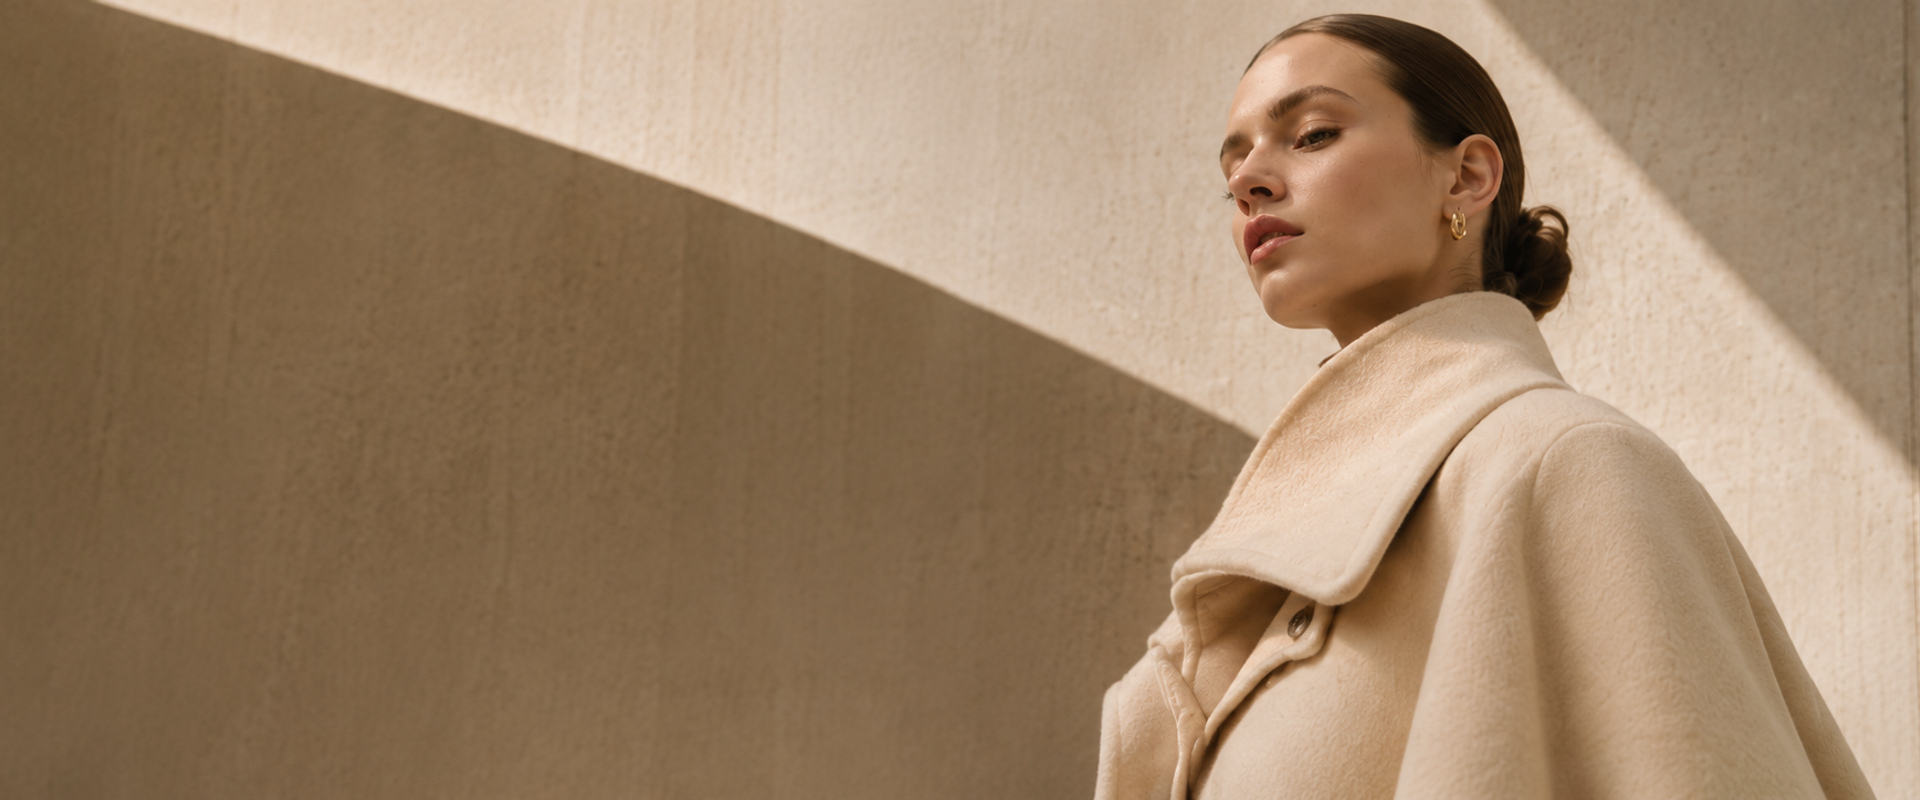
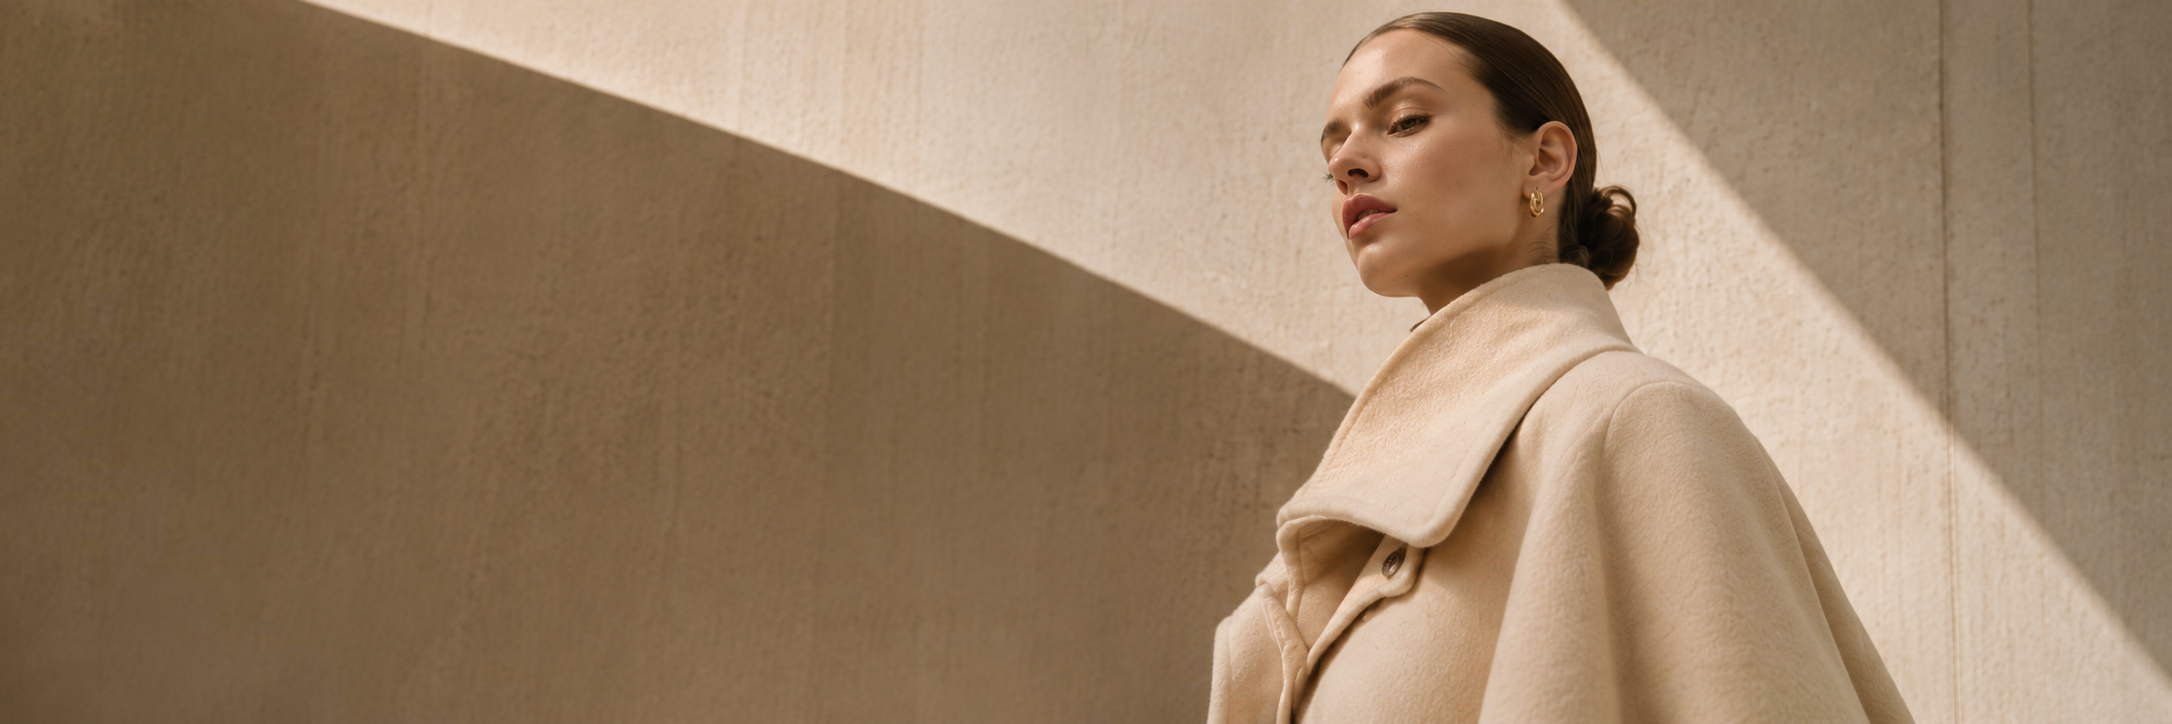
fix: align About, Journal, and Collections layouts to exact reference coordinates

diff --git a/src/app/about/page.tsx b/src/app/about/page.tsx
@@ -27,32 +27,31 @@ export default function AboutPage() {
   return (
     <div className="w-full bg-[#FAF8F5] text-[#171717] min-h-screen">
       {/* ──────────────────────────────────────────────────────────── */}
-      {/* 1. HERO SECTION: "THE ART OF LESS."                          */}
+      {/* 1. HERO SECTION: "THE ART OF LESS." (FULL-WIDTH BANNER)      */}
       {/* ──────────────────────────────────────────────────────────── */}
-      <section className="relative w-full border-b border-[#E9E6E0] bg-[#8B735B] overflow-hidden text-white">
-        <div className="max-w-[1600px] mx-auto flex flex-col lg:flex-row items-stretch min-h-[380px] sm:min-h-[440px] lg:min-h-[480px]">
-          {/* Left Column: Heading and Subtitle */}
-          <div className="w-full lg:w-[55%] px-6 sm:px-12 lg:px-16 py-12 sm:py-16 lg:py-20 flex flex-col justify-center space-y-3 sm:space-y-4 z-10">
-            <h1 className="font-editorial text-4xl sm:text-5xl lg:text-6xl text-white font-normal tracking-wide leading-tight">
-              THE ART OF LESS.
-            </h1>
-            <p className="text-xs sm:text-sm text-white/80 font-light tracking-wide max-w-md">
-              Designed with intention. Made to endure.
-            </p>
-          </div>
+      <section className="relative w-full h-[280px] sm:h-[360px] md:h-[420px] lg:h-[480px] overflow-hidden bg-[#786452] border-b border-[#E9E6E0]">
+        <div className="absolute inset-0">
+          <Image
+            src="/images/about/about-hero-model.jpg"
+            alt="VELORA The Art of Less"
+            fill
+            priority
+            quality={98}
+            className="object-cover object-[70%_top] sm:object-center"
+            sizes="100vw"
+          />
+          {/* Subtle gradient overlay to provide pristine legibility on the left while showcasing the model on the right */}
+          <div className="absolute inset-0 bg-gradient-to-r from-black/45 via-black/20 to-transparent w-full sm:w-[60%] lg:w-[48%]" />
+        </div>
 
-          {/* Right Column: Hero Portrait Photography */}
-          <div className="w-full lg:w-[45%] relative min-h-[320px] sm:min-h-[380px] lg:min-h-auto bg-[#7A644E] overflow-hidden">
-            <Image
-              src="/images/about/about-hero-model.jpg"
-              alt="VELORA The Art of Less"
-              fill
-              priority
-              quality={95}
-              className="object-cover object-top"
-              sizes="(max-width: 1024px) 100vw, 45vw"
-            />
-          </div>
+        {/* Hero Narrative Overlay */}
+        <div className="relative z-10 h-full max-w-[1600px] mx-auto px-6 sm:px-12 lg:px-16 flex flex-col justify-center space-y-2 sm:space-y-3">
+          <h1 className="font-editorial text-4xl sm:text-5xl lg:text-6xl text-white font-normal tracking-wide leading-tight">
+            THE ART OF LESS.
+          </h1>
+          <p className="text-xs sm:text-sm text-white/90 font-light tracking-wide max-w-md">
+            Designed with intention. Made to endure.
+          </p>
         </div>
       </section>
 
@@ -62,7 +61,7 @@ export default function AboutPage() {
       <section className="max-w-[1600px] mx-auto px-6 sm:px-10 lg:px-12 py-14 sm:py-20 border-b border-[#E9E6E0]">
         <div className="grid grid-cols-1 lg:grid-cols-12 gap-8 lg:gap-14 items-center">
           {/* Left Column: Story text */}
-          <div className="lg:col-span-7 space-y-4 sm:space-y-5">
+          <div className="lg:col-span-6 space-y-4 sm:space-y-5">
             <span className="text-[10px] tracking-[0.35em] uppercase text-[#77736E] font-medium block">
               OUR STORY
             </span>
@@ -85,13 +84,13 @@ export default function AboutPage() {
           </div>
 
           {/* Right Column: Male model portrait */}
-          <div className="lg:col-span-5 relative aspect-[4/3] sm:aspect-[16/11] w-full overflow-hidden bg-[#ECE7DE] border border-[#E9E6E0]">
+          <div className="lg:col-span-6 relative aspect-[16/10] sm:aspect-[16/9.5] w-full overflow-hidden bg-[#ECE7DE] border border-[#E9E6E0]">
             <Image
               src="/images/about/about-story-model.jpg"
               alt="A Considered Modern Wardrobe"
               fill
-              className="object-cover object-top"
-              sizes="(max-width: 1024px) 100vw, 42vw"
+              className="object-cover object-center"
+              sizes="(max-width: 1024px) 100vw, 50vw"
             />
           </div>
         </div>
@@ -110,7 +109,7 @@ export default function AboutPage() {
         <div className="grid grid-cols-1 md:grid-cols-3 gap-6 sm:gap-8">
           {designPrinciples.map((item, idx) => (
             <div key={idx} className="space-y-3">
-              <div className="relative aspect-[16/8] sm:aspect-[16/9] w-full overflow-hidden bg-[#ECE7DE] border border-[#E9E6E0]">
+              <div className="relative aspect-[16/9] w-full overflow-hidden bg-[#ECE7DE] border border-[#E9E6E0]">
                 <Image
                   src={item.image}
                   alt={item.label}
@@ -138,7 +137,7 @@ export default function AboutPage() {
       <section className="max-w-[1600px] mx-auto px-6 sm:px-10 lg:px-12 py-14 sm:py-20 border-b border-[#E9E6E0]">
         <div className="grid grid-cols-1 lg:grid-cols-12 gap-8 lg:gap-14 items-center">
           {/* Left Column: Artisan hands cutting cloth */}
-          <div className="lg:col-span-7 relative aspect-[16/9] sm:aspect-[16/8] w-full overflow-hidden bg-[#ECE7DE] border border-[#E9E6E0]">
+          <div className="lg:col-span-7 relative aspect-[16/9] sm:aspect-[16/8.5] w-full overflow-hidden bg-[#ECE7DE] border border-[#E9E6E0]">
             <Image
               src="/images/about/about-craftsmanship.jpg"
               alt="Artisan Craftsmanship"
@@ -178,7 +177,7 @@ export default function AboutPage() {
       <section className="max-w-[1600px] mx-auto px-6 sm:px-10 lg:px-12 py-14 sm:py-20 border-b border-[#E9E6E0]">
         <div className="grid grid-cols-1 lg:grid-cols-12 gap-6 sm:gap-10 items-center">
           {/* Left Column: Big Headline */}
-          <div className="lg:col-span-7 space-y-2">
+          <div className="lg:col-span-6 space-y-2">
             <span className="text-[10px] tracking-[0.35em] uppercase text-[#77736E] font-medium block">
               OUR MANIFESTO
             </span>
@@ -188,8 +187,13 @@ export default function AboutPage() {
             </h2>
           </div>
 
+          {/* Middle vertical divider */}
+          <div className="hidden lg:flex lg:col-span-1 justify-center">
+            <div className="w-[1px] h-20 bg-[#E9E6E0]" />
+          </div>
+
           {/* Right Column: Statement Paragraph */}
-          <div className="lg:col-span-5 lg:pl-6">
+          <div className="lg:col-span-5">
             <p className="text-xs sm:text-sm text-[#77736E] font-light leading-relaxed">
               We believe in fewer, better pieces — garments that bring clarity, confidence and ease to modern life.
             </p>
@@ -200,22 +204,19 @@ export default function AboutPage() {
       {/* ──────────────────────────────────────────────────────────── */}
       {/* 6. FULL-WIDTH CAMPAIGN STRIP WITH "EXPLORE COLLECTIONS"      */}
       {/* ──────────────────────────────────────────────────────────── */}
-      <section className="relative w-full h-[220px] sm:h-[280px] lg:h-[320px] overflow-hidden bg-[#2C241E]">
+      <section className="relative w-full h-[220px] sm:h-[280px] lg:h-[340px] overflow-hidden bg-[#2C241E] border-t border-[#E9E6E0]">
         <Image
           src="/images/about/about-bottom-campaign.jpg"
           alt="VELORA Flowing Cape Campaign"
           fill
           priority
-          className="object-cover object-top"
+          className="object-cover object-center"
           sizes="100vw"
         />
-        {/* Subtle right-side dark gradient to ensure high button contrast */}
-        <div className="absolute inset-0 bg-gradient-to-l from-black/60 via-transparent to-transparent" />
-
         <div className="relative z-10 h-full max-w-[1600px] mx-auto px-6 sm:px-10 lg:px-12 flex items-center justify-end">
           <Link
             href="/collections"
-            className="inline-flex items-center gap-2.5 bg-[#171717]/90 hover:bg-[#171717] text-white border border-white/20 hover:border-white/50 text-[10px] sm:text-[11px] uppercase tracking-[0.25em] px-7 py-3.5 font-medium transition-all group backdrop-blur-xs"
+            className="inline-flex items-center gap-2.5 bg-[#171717]/90 hover:bg-[#171717] text-white border border-white/20 hover:border-white/50 text-[10px] sm:text-[11px] uppercase tracking-[0.25em] px-7 py-3.5 font-medium transition-all group backdrop-blur-xs shadow-lg"
           >
             <span>EXPLORE COLLECTIONS</span>
             <ArrowRight className="w-3.5 h-3.5 group-hover:translate-x-1 transition-transform" />

diff --git a/src/app/journal/page.tsx b/src/app/journal/page.tsx
@@ -72,36 +72,35 @@ export default function JournalPage() {
   return (
     <div className="w-full bg-[#FAF8F5] text-[#171717] min-h-screen">
       {/* ──────────────────────────────────────────────────────────── */}
-      {/* 1. HERO SECTION: "THE VELORA JOURNAL"                        */}
+      {/* 1. HERO SECTION: "THE VELORA JOURNAL" (FULL-WIDTH BANNER)    */}
       {/* ──────────────────────────────────────────────────────────── */}
-      <section className="relative w-full border-b border-[#E9E6E0] bg-[#FAF8F5] overflow-hidden">
-        <div className="max-w-[1600px] mx-auto flex flex-col lg:flex-row items-stretch min-h-[380px] sm:min-h-[440px] lg:min-h-[480px]">
-          {/* Left Column: Editorial Headline */}
-          <div className="w-full lg:w-[55%] px-6 sm:px-12 lg:px-16 py-12 sm:py-16 lg:py-20 flex flex-col justify-center space-y-4 sm:space-y-5">
-            <span className="text-[10px] sm:text-[11px] tracking-[0.38em] uppercase text-[#77736E] font-medium block">
-              JOURNAL
-            </span>
-            <h1 className="font-editorial text-4xl sm:text-5xl lg:text-6xl text-[#171717] font-normal tracking-tight leading-[1.08]">
-              THE VELORA<br />
-              JOURNAL
-            </h1>
-            <p className="text-xs sm:text-sm text-[#77736E] font-light leading-relaxed max-w-md pt-1">
-              Stories on style, craft, culture and a more considered way of living.
-            </p>
-          </div>
+      <section className="relative w-full h-[280px] sm:h-[360px] md:h-[420px] lg:h-[480px] overflow-hidden bg-[#EAE4D9] border-b border-[#E9E6E0]">
+        <div className="absolute inset-0">
+          <Image
+            src="/images/journal/journal-hero-model.jpg"
+            alt="The VELORA Journal Editorial"
+            fill
+            priority
+            quality={98}
+            className="object-cover object-[70%_top] sm:object-center"
+            sizes="100vw"
+          />
+          {/* Subtle gradient overlay to provide pristine legibility on the left while showcasing the model on the right */}
+          <div className="absolute inset-0 bg-gradient-to-r from-[#FAF8F5]/92 via-[#FAF8F5]/50 to-transparent w-full sm:w-[60%] lg:w-[48%]" />
+        </div>
 
-          {/* Right Column: Hero Portrait Photography */}
-          <div className="w-full lg:w-[45%] relative min-h-[300px] sm:min-h-[360px] lg:min-h-auto bg-[#EAE4D9] overflow-hidden">
-            <Image
-              src="/images/journal/journal-hero-model.jpg"
-              alt="The VELORA Journal Editorial"
-              fill
-              priority
-              quality={95}
-              className="object-cover object-top"
-              sizes="(max-width: 1024px) 100vw, 45vw"
-            />
-          </div>
+        {/* Hero Narrative Overlay */}
+        <div className="relative z-10 h-full max-w-[1600px] mx-auto px-6 sm:px-12 lg:px-16 flex flex-col justify-center space-y-2 sm:space-y-3">
+          <span className="text-[10px] sm:text-[11px] tracking-[0.38em] uppercase text-[#77736E] font-medium block">
+            JOURNAL
+          </span>
+          <h1 className="font-editorial text-4xl sm:text-5xl lg:text-6xl text-[#171717] font-normal tracking-tight leading-[1.08]">
+            THE VELORA<br />
+            JOURNAL
+          </h1>
+          <p className="text-xs sm:text-sm text-[#77736E] font-light leading-relaxed max-w-md pt-1">
+            Stories on style, craft, culture and a more considered way of living.
+          </p>
         </div>
       </section>
 

diff --git a/src/app/collections/page.tsx b/src/app/collections/page.tsx
@@ -14,7 +14,7 @@ export default function CollectionsPage() {
       {/* ──────────────────────────────────────────────────────────── */}
       {/* 1. CINEMATIC FULL-WIDTH CAMPAIGN HERO BANNER                 */}
       {/* ──────────────────────────────────────────────────────────── */}
-      <section className="relative w-full h-[220px] sm:h-[260px] md:h-[300px] lg:h-[340px] overflow-hidden bg-[#ECE6DC] border-b border-[#E9E6E0]">
+      <section className="relative w-full h-[260px] sm:h-[320px] md:h-[380px] lg:h-[440px] overflow-hidden bg-[#ECE6DC] border-b border-[#E9E6E0]">
         {/* Architectural backdrop and Model image */}
         <div className="absolute inset-0">
           <Image
@@ -22,7 +22,7 @@ export default function CollectionsPage() {
             alt="VELORA Curated Chapters"
             fill
             priority
-            className="object-cover object-[right_top] sm:object-[center_top]"
+            className="object-cover object-[75%_top] sm:object-center"
             sizes="100vw"
           />
           {/* Subtle gradient overlay to provide pristine legibility on the left while showcasing the model on the right */}
